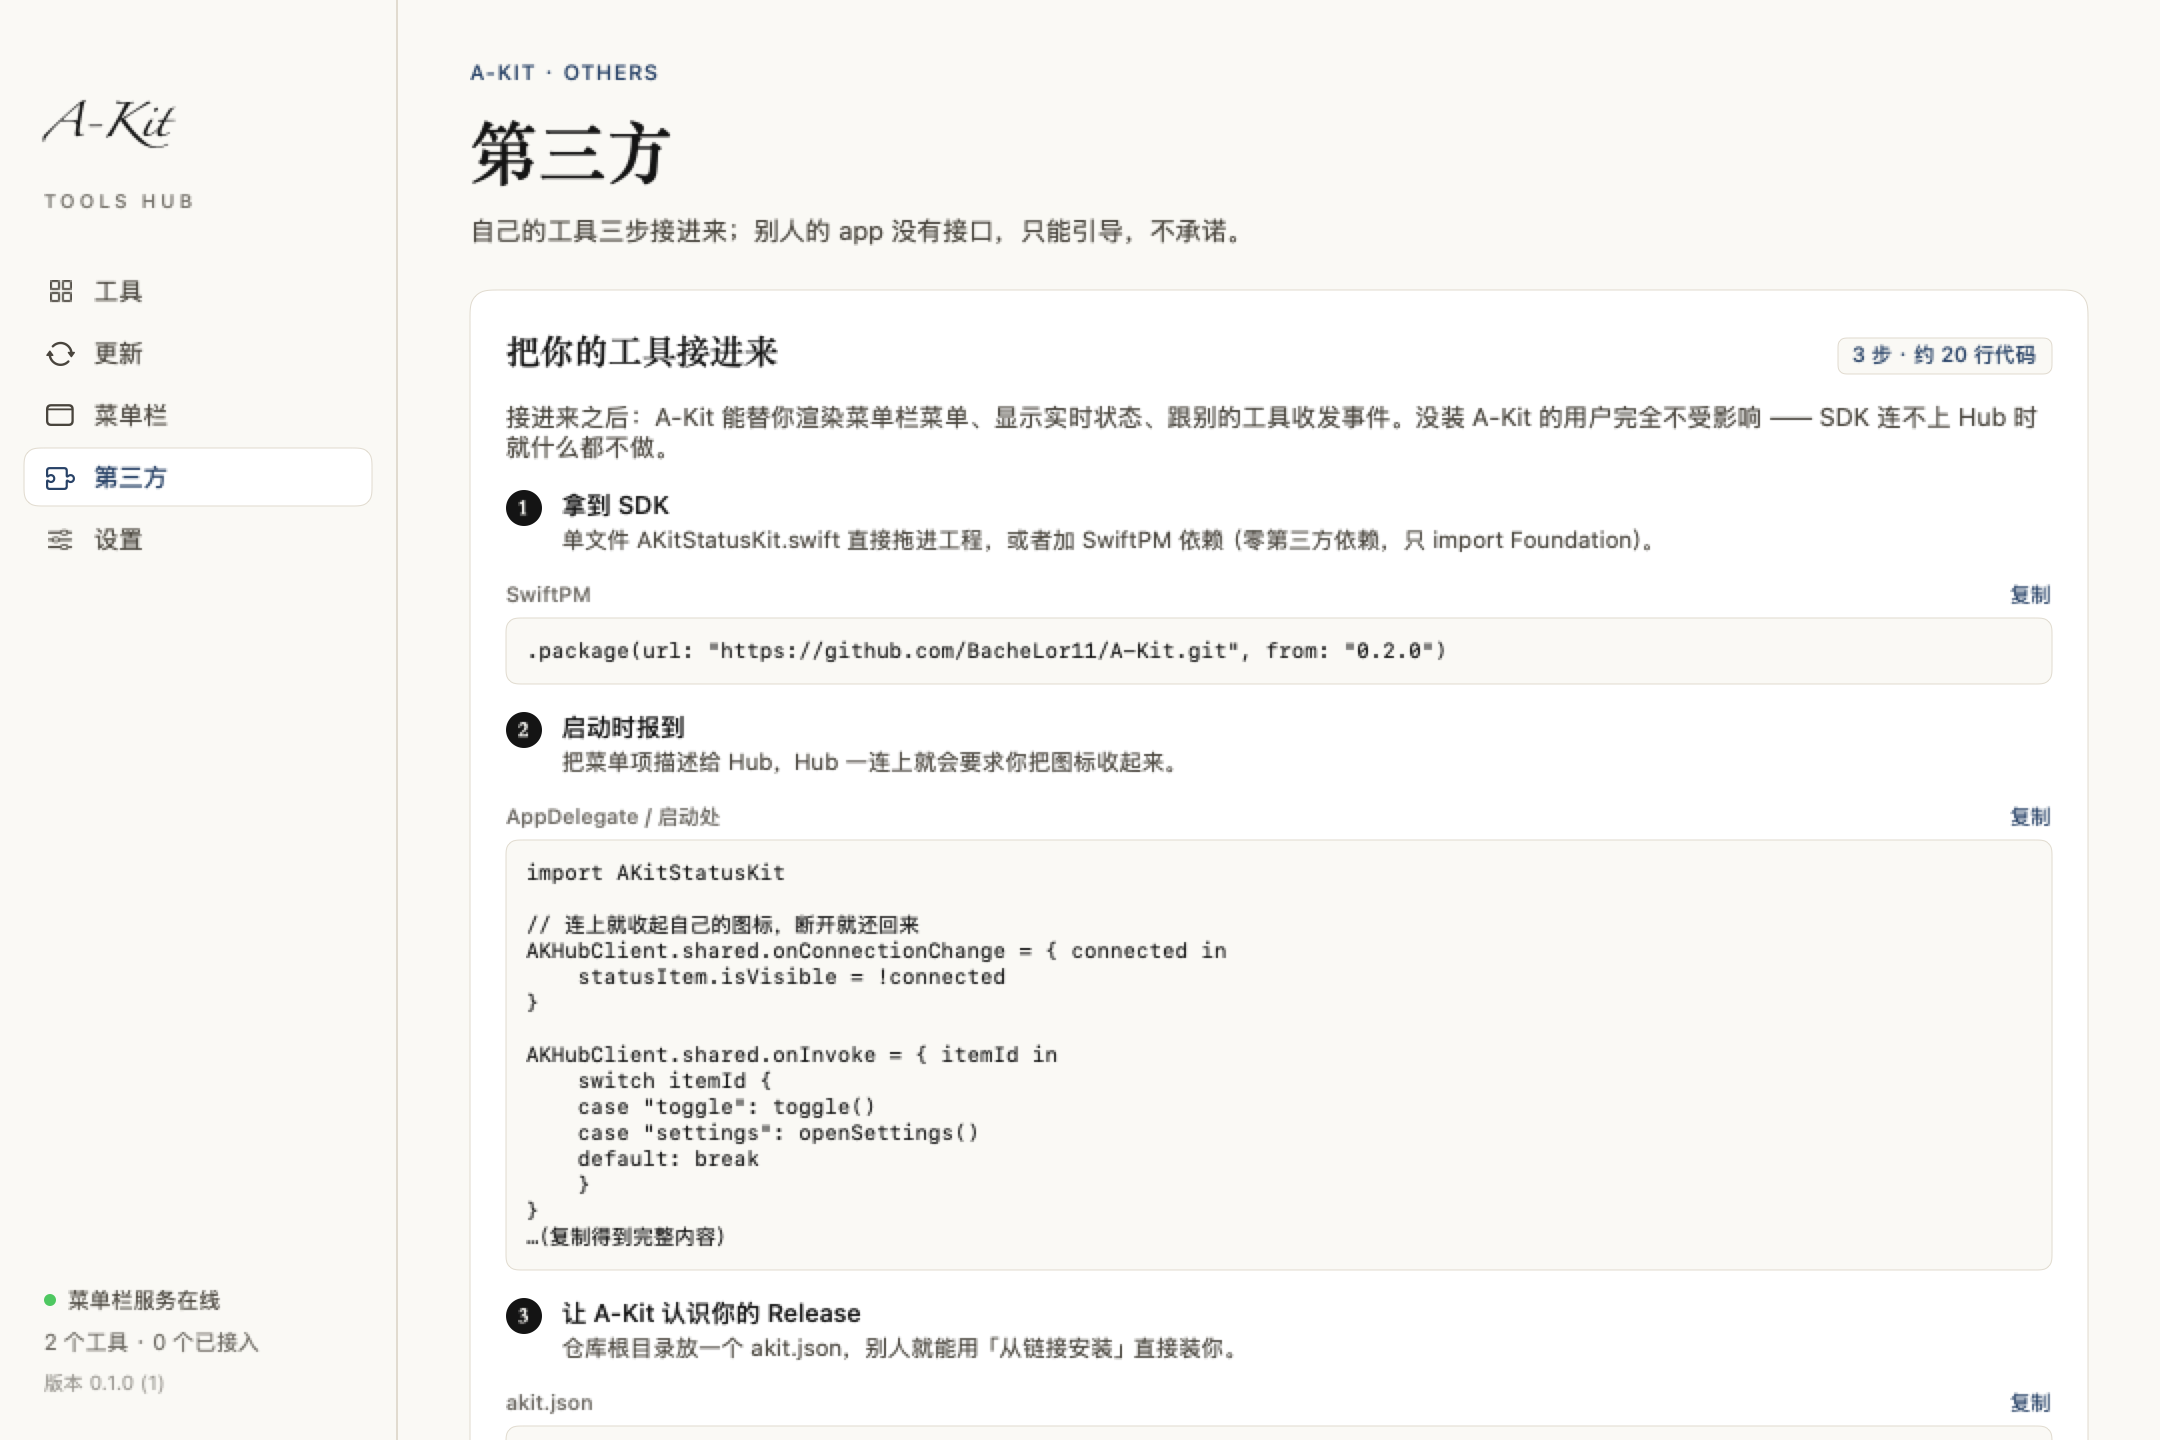
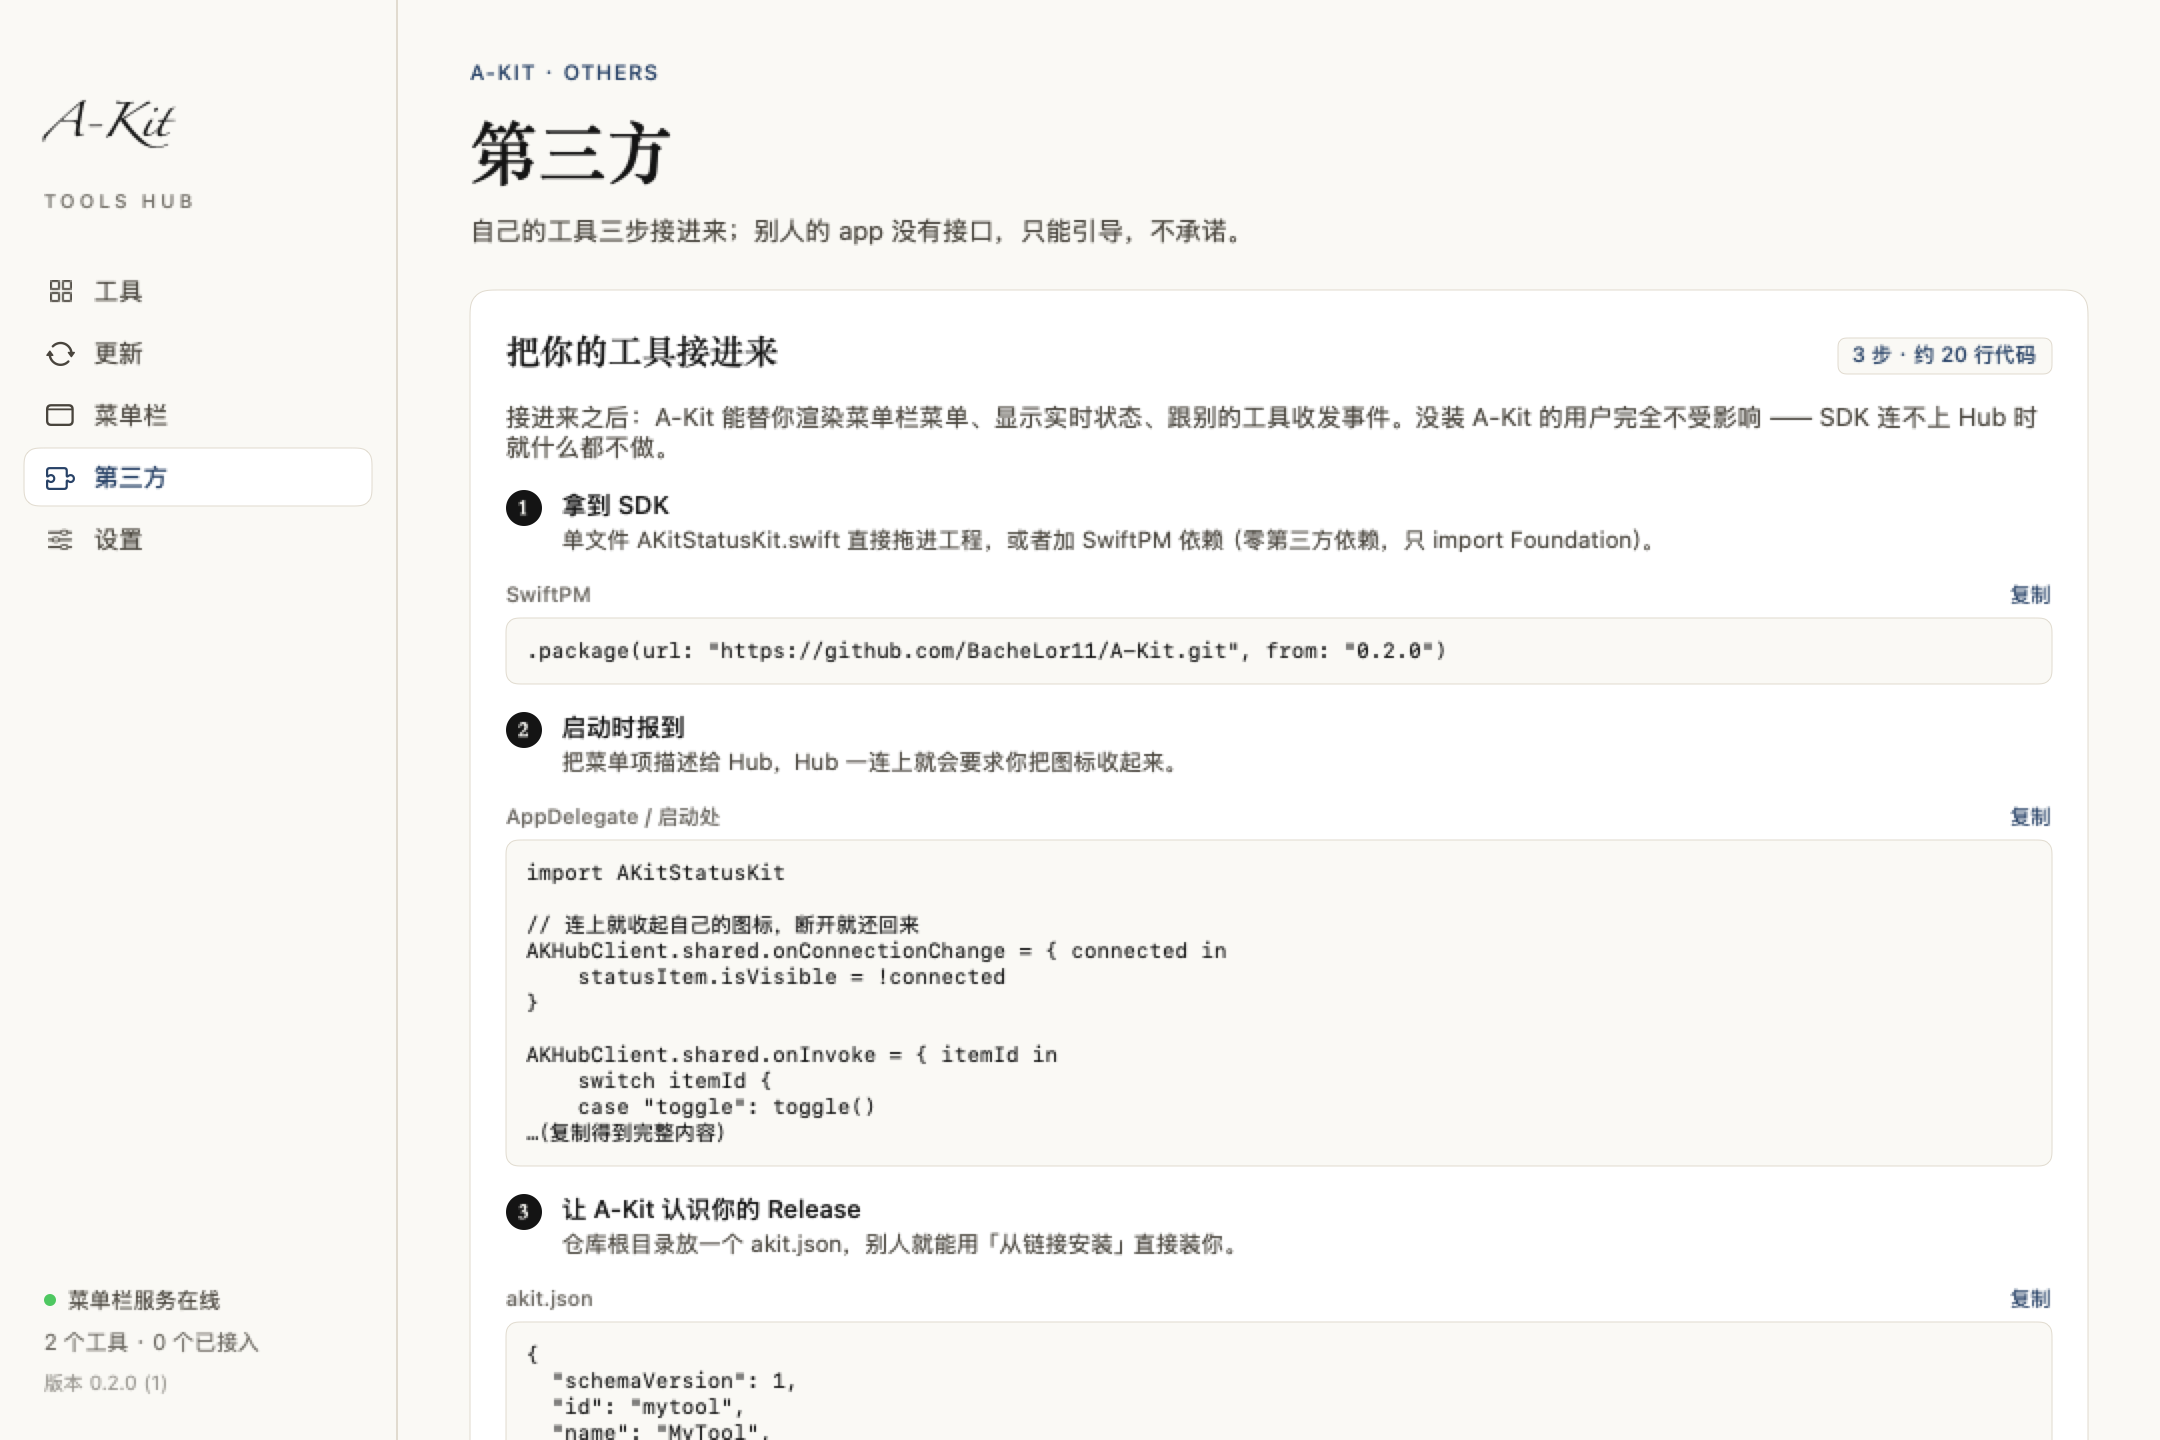
修 build.sh 变量展开、快照版本号回落、代码块折叠与详情页使用统计

Changed region(s): [[0.2171, 0.7812, 0.5894, 1.0], [0.9306, 0.9688, 0.9616, 1.0], [0.9306, 0.875, 0.9616, 0.9062]]

diff --git a/Sources/AKitHub/Views.swift b/Sources/AKitHub/Views.swift
@@ -95,9 +95,26 @@ private struct Sidebar: View {
     }
 
     private var version: String {
-        let v = Bundle.main.object(forInfoDictionaryKey: "CFBundleShortVersionString") as? String ?? "0.1.0"
+        let v = Self.appVersion
         let b = Bundle.main.object(forInfoDictionaryKey: "CFBundleVersion") as? String ?? "1"
         return "版本 \(v) (\(b))"
+    }
+}
+
+extension Sidebar {
+    /// 裸二进制跑快照时没有 Info.plist，回落到仓库里的 Info.plist，避免版本号显示成死值
+    static var appVersion: String {
+        if let v = Bundle.main.object(forInfoDictionaryKey: "CFBundleShortVersionString") as? String {
+            return v
+        }
+        let url = URL(fileURLWithPath: FileManager.default.currentDirectoryPath)
+            .appendingPathComponent("Resources/Info.plist")
+        if let data = try? Data(contentsOf: url),
+           let plist = try? PropertyListSerialization.propertyList(from: data, format: nil) as? [String: Any],
+           let v = plist["CFBundleShortVersionString"] as? String {
+            return v
+        }
+        return "dev"
     }
 }
 
@@ -821,8 +838,8 @@ private struct CopyBlock: View {
     /// 页面里只露前 14 行，复制的是完整内容
     private var display: String {
         let lines = code.split(separator: "\n", omittingEmptySubsequences: false)
-        guard lines.count > 14 else { return code }
-        return lines.prefix(14).joined(separator: "\n") + "\n…（复制得到完整内容）"
+        guard lines.count > 10 else { return code }
+        return lines.prefix(10).joined(separator: "\n") + "\n…（复制得到完整内容）"
     }
 }
 

diff --git a/Sources/AKitHub/ImportView.swift b/Sources/AKitHub/ImportView.swift
@@ -247,7 +247,7 @@ struct ImportSheet: View {
 
     private var footer: some View {
         HStack(spacing: 10) {
-            if let t = state.imported.last {
+            if !state.imported.isEmpty {
                 Text("已装 \(state.imported.count) 个来自链接的工具")
                     .font(AKFont.sans(11))
                     .foregroundColor(ak.inkSoft.opacity(0.75))
